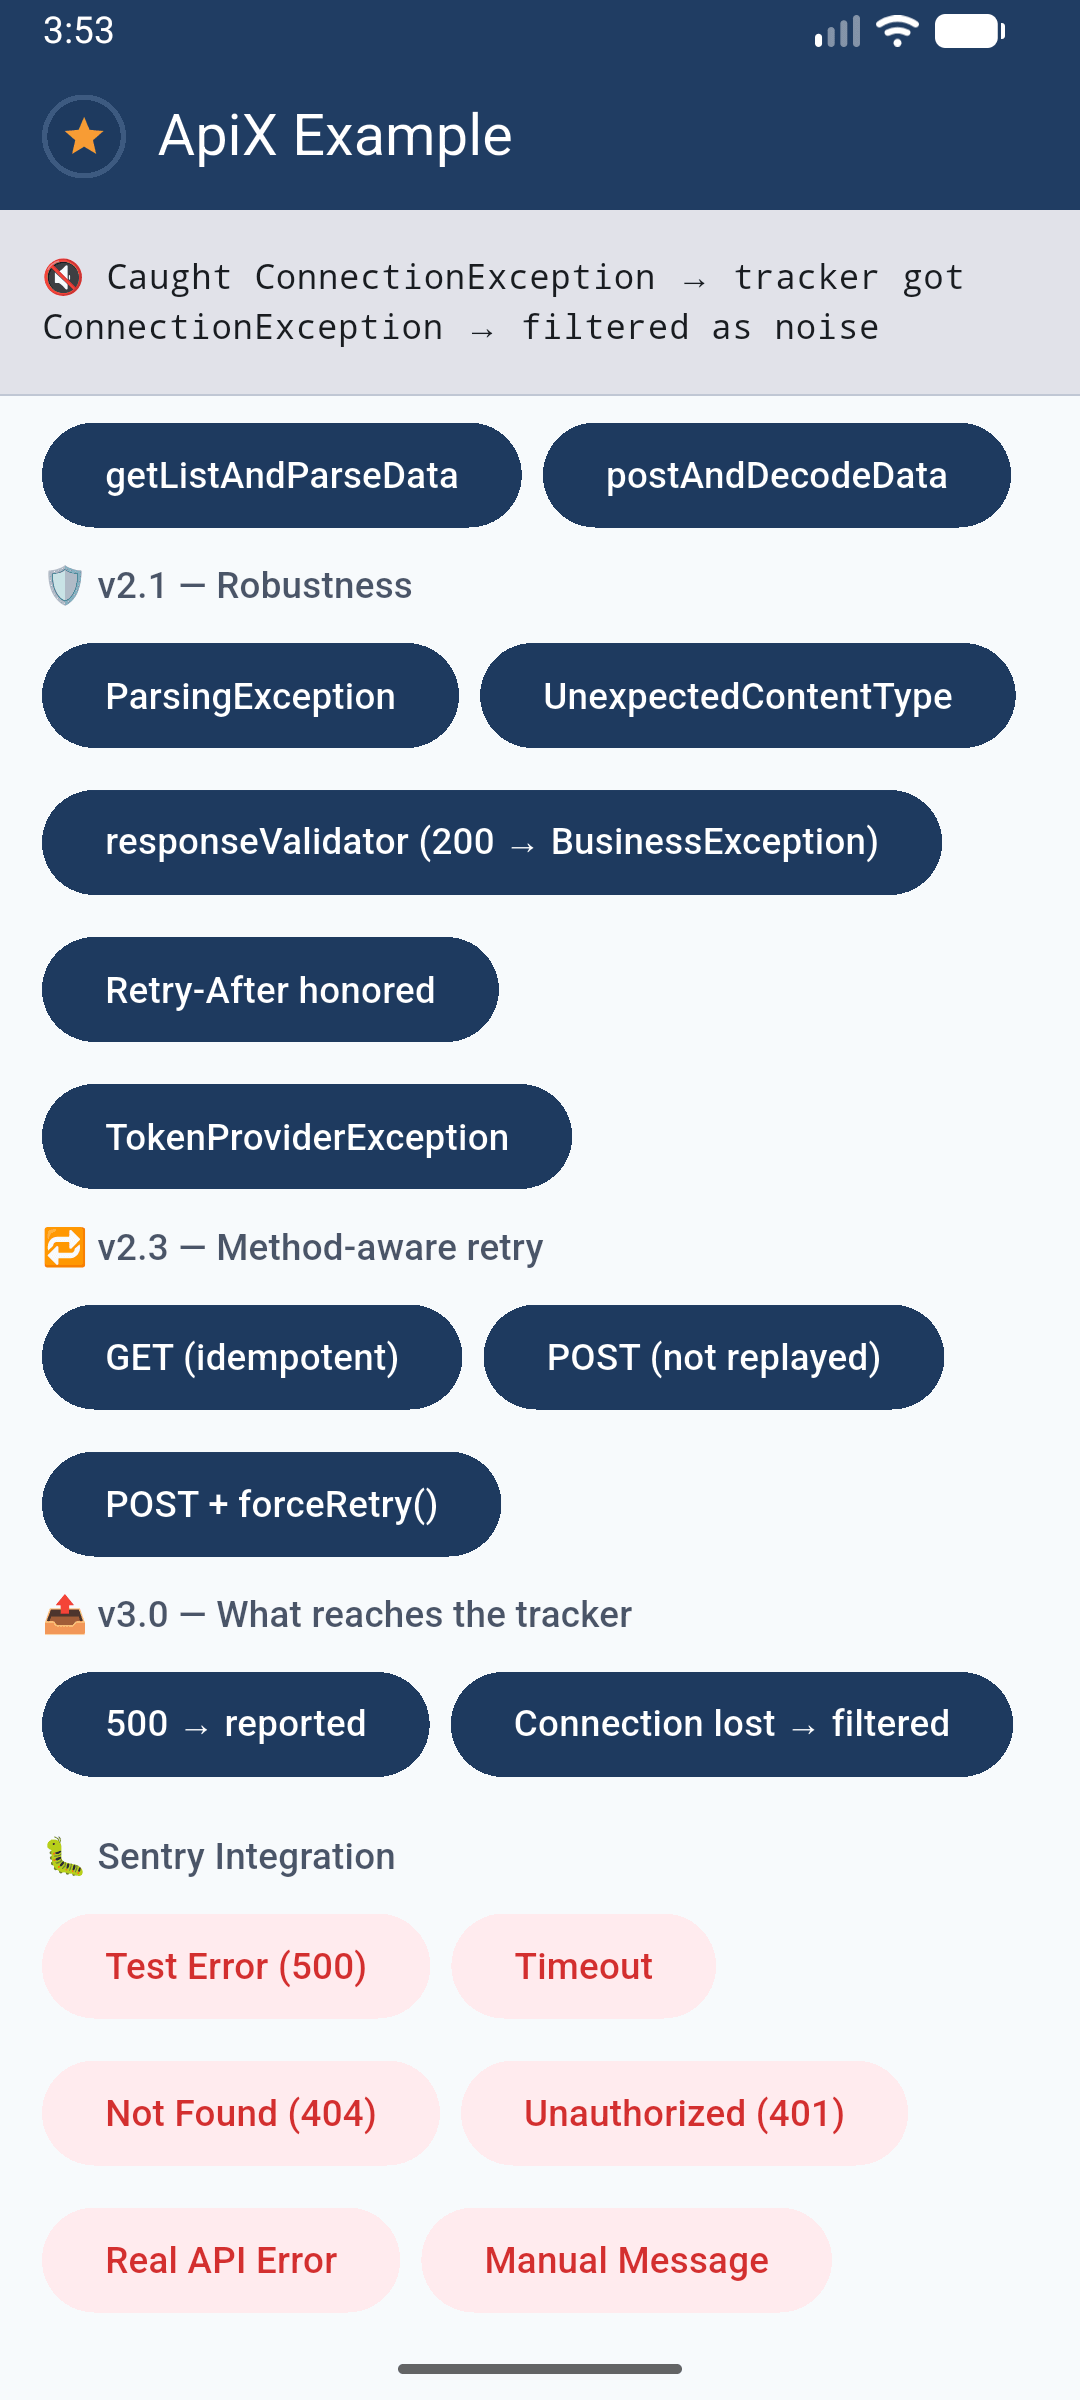
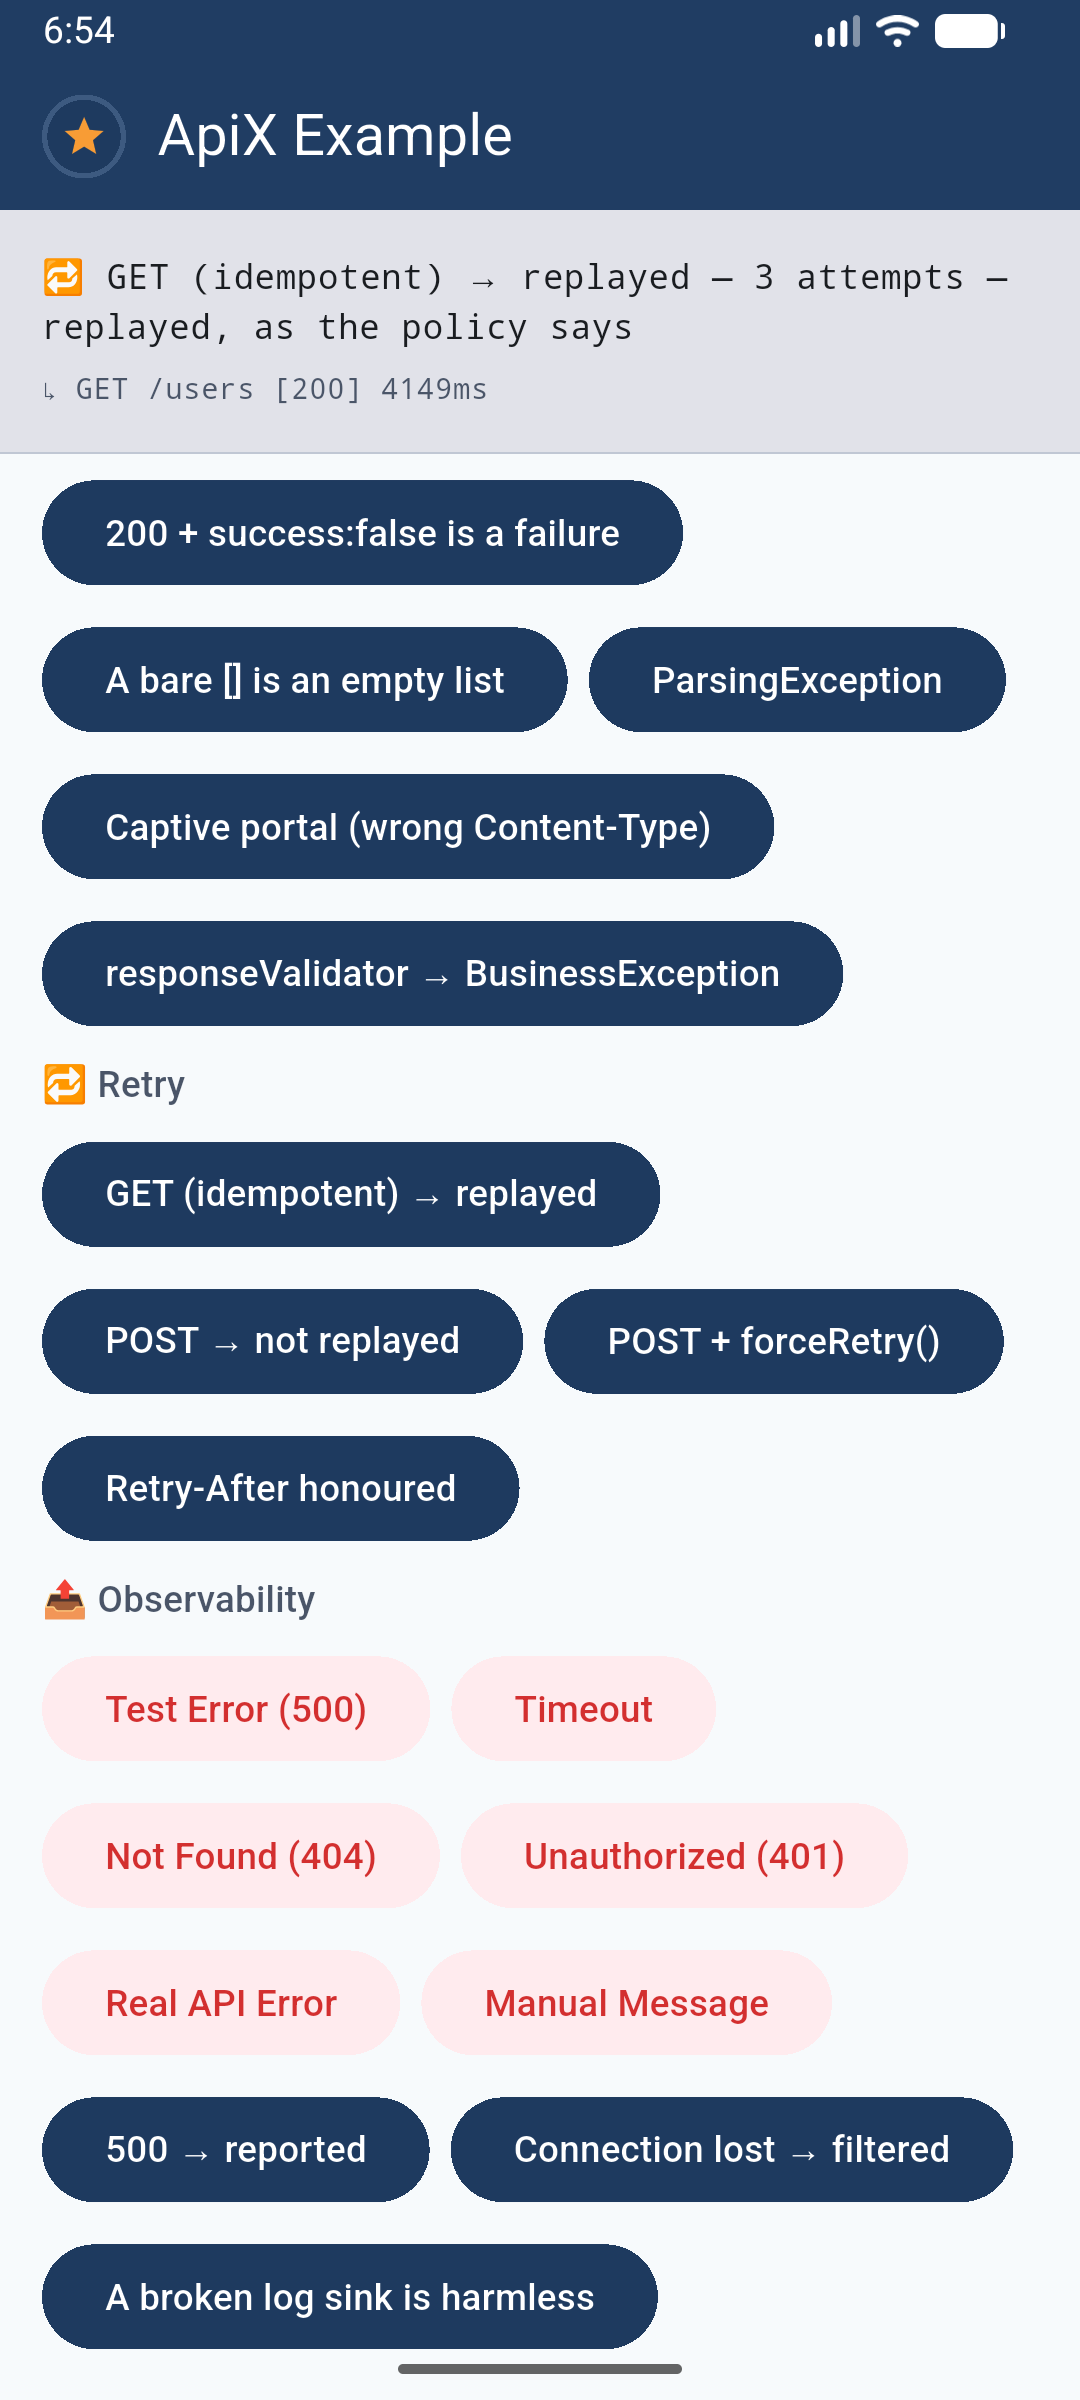
docs: refresh the screenshots for the thematic demo
The two existing ones showed sections that no longer exist — the demo is filed
by theme now, not by release — so their pub.dev descriptions described a screen
nobody would find. A third joins them: the probes are what this release is
about, and neither of the old shots showed one reporting.

Each capture pairs a result with its evidence, which is the point of the demo:
the status bar carries what a probe observed, and the metrics line under it
carries the last real request. The three come from one session, so that line
reads the same across all of them.

- home.png   — requests, responses and cache, with GET /users [200] measured
- probes.png — "A got Bearer token-A, B got Bearer token-B (2 calls)": two
               accounts on one device served their own entry, above the auth,
               upload and error-code sections
- demos.png  — "3 attempts — replayed, as the policy says", above retry and
               observability

Taking them needed one non-obvious condition, learned the hard way: run a real
request that *succeeds* first. The metrics line survives a probe tap, so a
failed request leaves a red connectionError sitting under a green result — and
on a gallery image the eye reads the red first.

README width drops from 290 to 260 so three fit a line, and the feature list
below now describes the themes rather than the releases.

diff --git a/README.md b/README.md
@@ -1009,19 +1009,36 @@ A complete Flutter app demonstrating all ApiX features is available on GitHub:
 👉 **[apix_example_app](https://github.com/Germinator97/apix_example_app)**
 
 <p align="center">
-  <img src="assets/screenshots/home.png" alt="ApiX Example App — cache strategies, cache invalidation and mutations, with live request metrics in the status bar" width="290">
-  &nbsp;&nbsp;
-  <img src="assets/screenshots/demos.png" alt="ApiX Example App — method-aware retry probes, Sentry error triggers, and the fetched data" width="290">
+  <img src="assets/screenshots/home.png" alt="ApiX Example App — requests, responses and caching under one taxonomy, with live request metrics in the status bar" width="260">
+  &nbsp;
+  <img src="assets/screenshots/probes.png" alt="ApiX Example App — a probe reporting that two accounts on one device are served their own cache entry, above the auth, upload and error-code demos" width="260">
+  &nbsp;
+  <img src="assets/screenshots/demos.png" alt="ApiX Example App — method-aware retry counted attempt by attempt, and what reaches the error tracker versus what is dropped as transport noise" width="260">
 </p>
 
-Features demonstrated:
-- 🔐 SecureTokenProvider with simplified refresh flow
-- 💾 Cache strategies (CacheFirst, NetworkFirst, HttpCache) + invalidation API
-- 🔄 Retry: exponential backoff, `Retry-After`, and the method-aware guard — three live probes measure how many times the server is actually hit for `GET`, `POST` and `POST` + `forceRetry()`
-- 🛡 Typed failures: `ParsingException`, `UnexpectedContentTypeException`, `responseValidator` → custom exception, `TokenProviderException`
-- 📦 Envelope API (`*Data` methods) against a mocked backend
-- 🐛 Sentry integration with error testing
-- 📊 Request metrics and logging
+The app is organised by **theme**, not by release, and each section pairs the
+live feature with the probes that pin it:
+
+- 📥 **Requests & responses** — plain CRUD and the envelope (`*Data`) methods
+  against a mocked backend
+- 💾 **Cache** — the five strategies and the invalidation API, plus probes for
+  per-caller scoping, inline query keys, `networkOnly` writing nothing, and
+  deduplication without a cache
+- 🔐 **Auth & uploads** — `SecureTokenProvider` with the simplified refresh
+  flow, an upload surviving a token refresh, nested multipart, and
+  `TokenProviderException`
+- ⚠ **Errors & error codes** — application codes, a status that is not a code,
+  `429` with its delay, a business failure dressed as `200`, a bare `[]`,
+  `ParsingException`, captive portals, `responseValidator`
+- 🔁 **Retry** — exponential backoff, `Retry-After`, and the method-aware
+  guard; four probes count how many times the server is actually hit
+- 📤 **Observability** — what reaches the tracker, what is dropped as transport
+  noise, a broken log sink that cannot fail the request, and live Sentry
+  triggers
+
+Every probe reports the **evidence** — a count, a body, a flag — rather than a
+pass mark, because the defects they cover produced a wrong answer rather than
+an error.
 
 > A shorter, single-file example lives in [`example/example.dart`](example/example.dart) — that is the one rendered on pub.dev. The linked repo is the full Flutter app.
 
